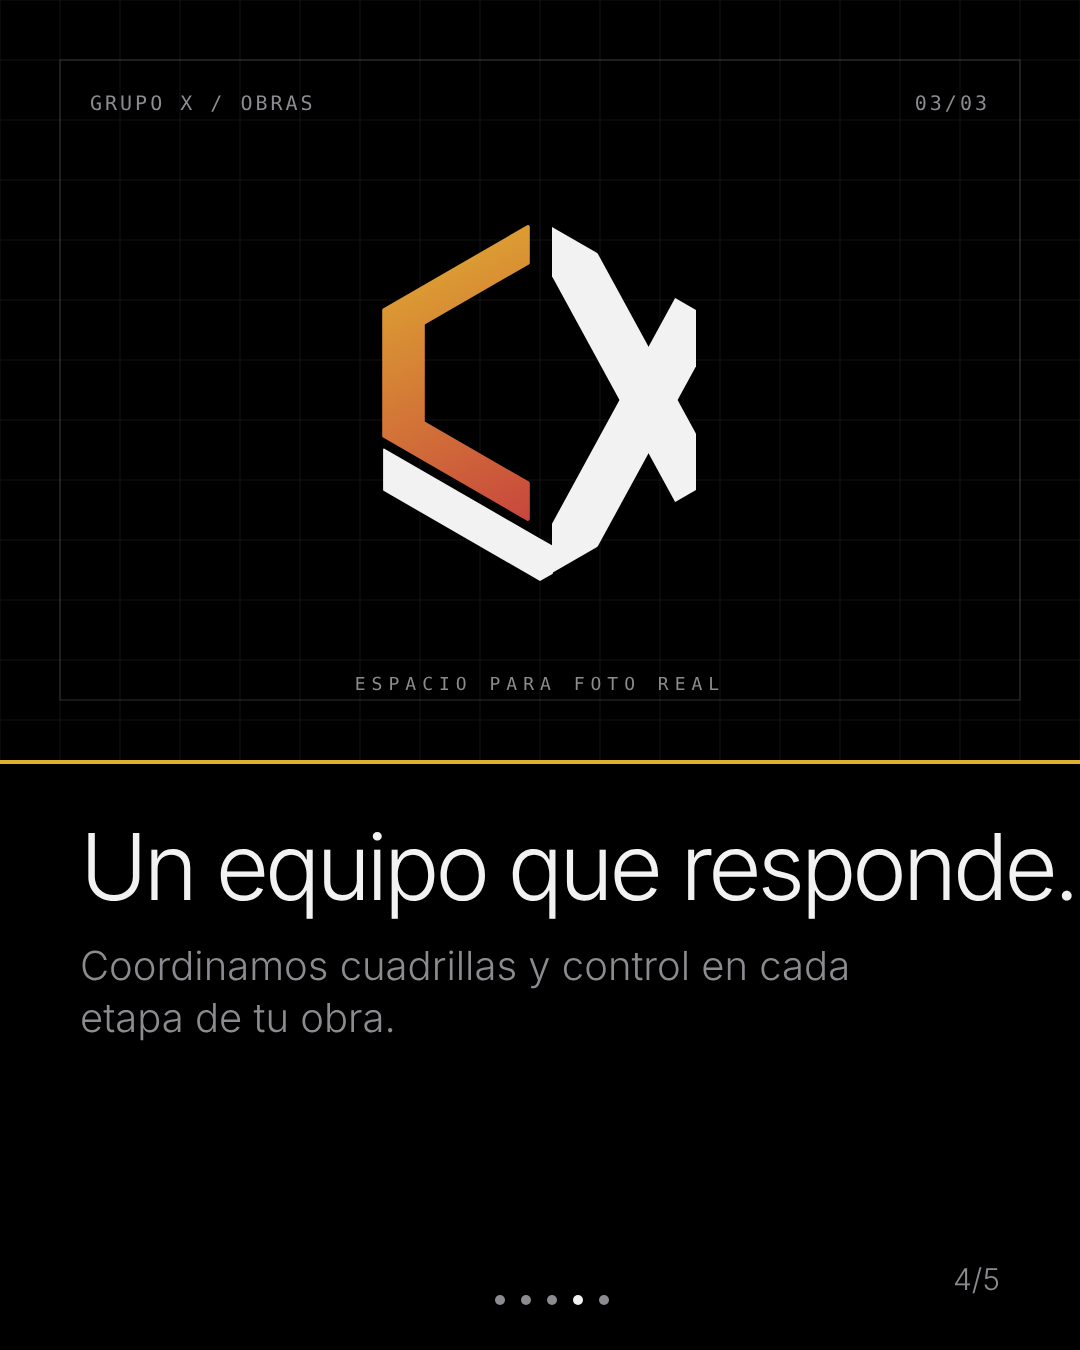
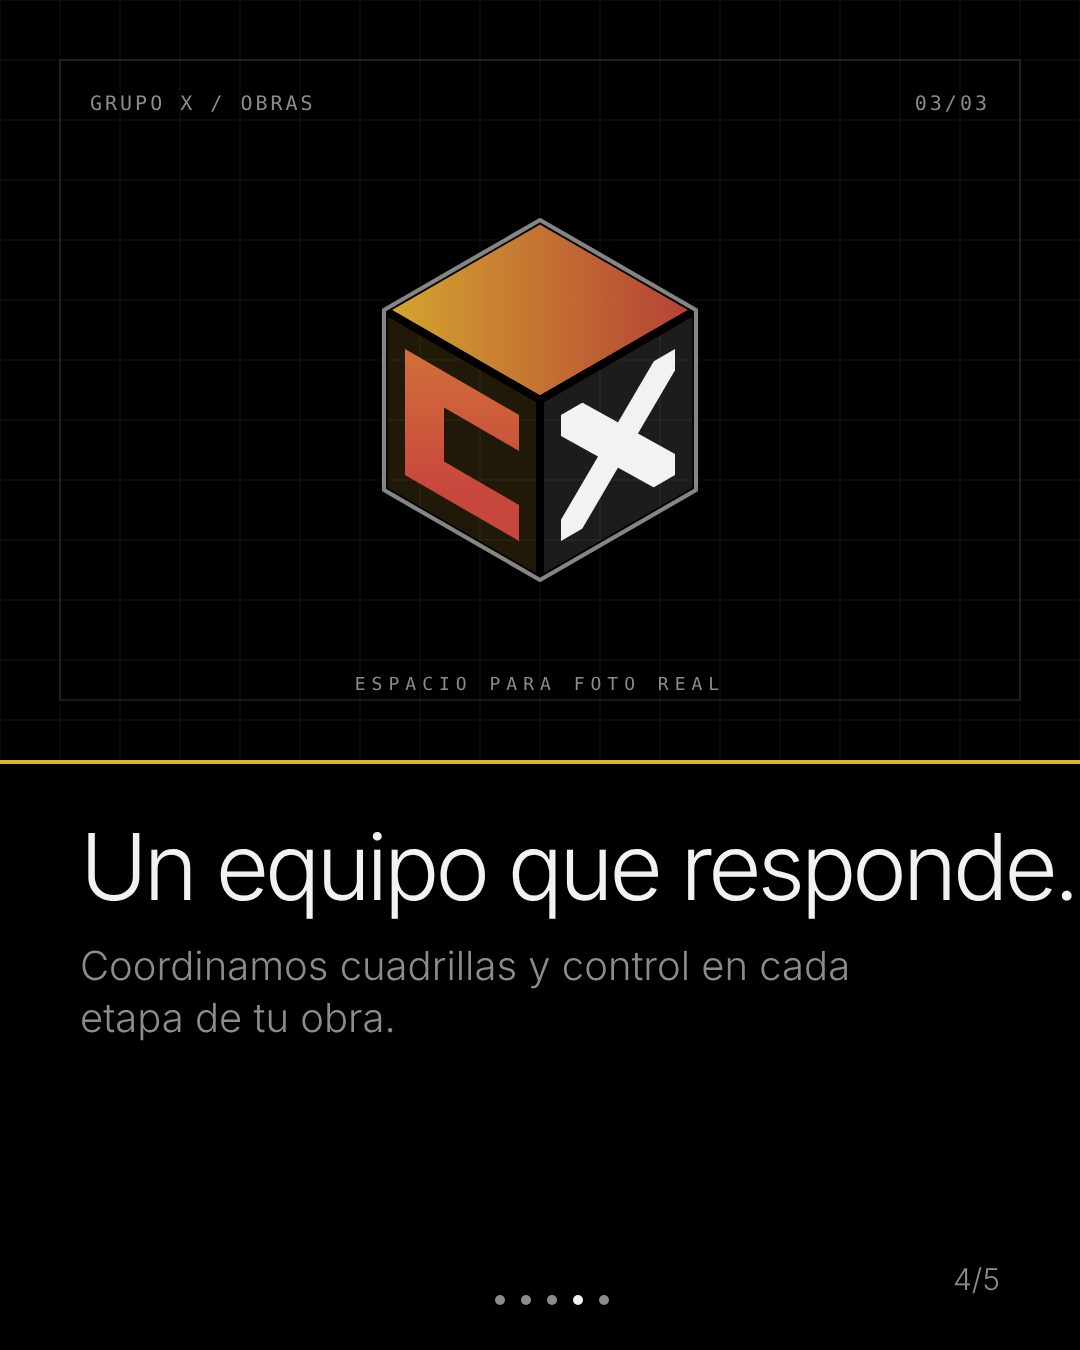
ConstruAVX: true isometric cube with C and X on its faces
Claude-Session: https://claude.ai/code/session_01SyEUPzv47j4v1ivZ7w3zNj

Changed region(s): [[0.3361, 0.1556, 0.6722, 0.4356]]

diff --git a/branding/perfiles.md b/branding/perfiles.md
@@ -33,7 +33,7 @@
 
 ## ConstruAVX
 
-> **Símbolo propio: cubo CX.** Un hexágono isométrico formado por tres piezas: la cara izquierda es la **C** (bloque con degradado amarillo→rojo y una muesca abierta hacia la derecha), la cara derecha es la **X** (blanca, con X en negativo) y una **V** blanca hace de base del cubo. El nombre va en dos tonos: CONSTRU en blanco y AVX en degradado, con la frase en mayúsculas espaciadas. Sin estrellas de fondo. ProduAVX conserva la X de cintas con degradado azul→verde.
+> **Símbolo propio: cubo CX.** Un cubo isométrico de tres caras: en la cara izquierda va la **C** (degradado amarillo→rojo) y en la cara derecha la **X** (blanca), ambas dibujadas en perspectiva; la tapa superior lleva el degradado de la marca. El nombre va en dos tonos: CONSTRU en blanco y AVX en degradado, con la frase en mayúsculas espaciadas. Sin estrellas de fondo. ProduAVX conserva la X de cintas con degradado azul→verde.
 
 - **Nombre:** ConstruAVX
 - **Usuario sugerido:** `@construavx`
